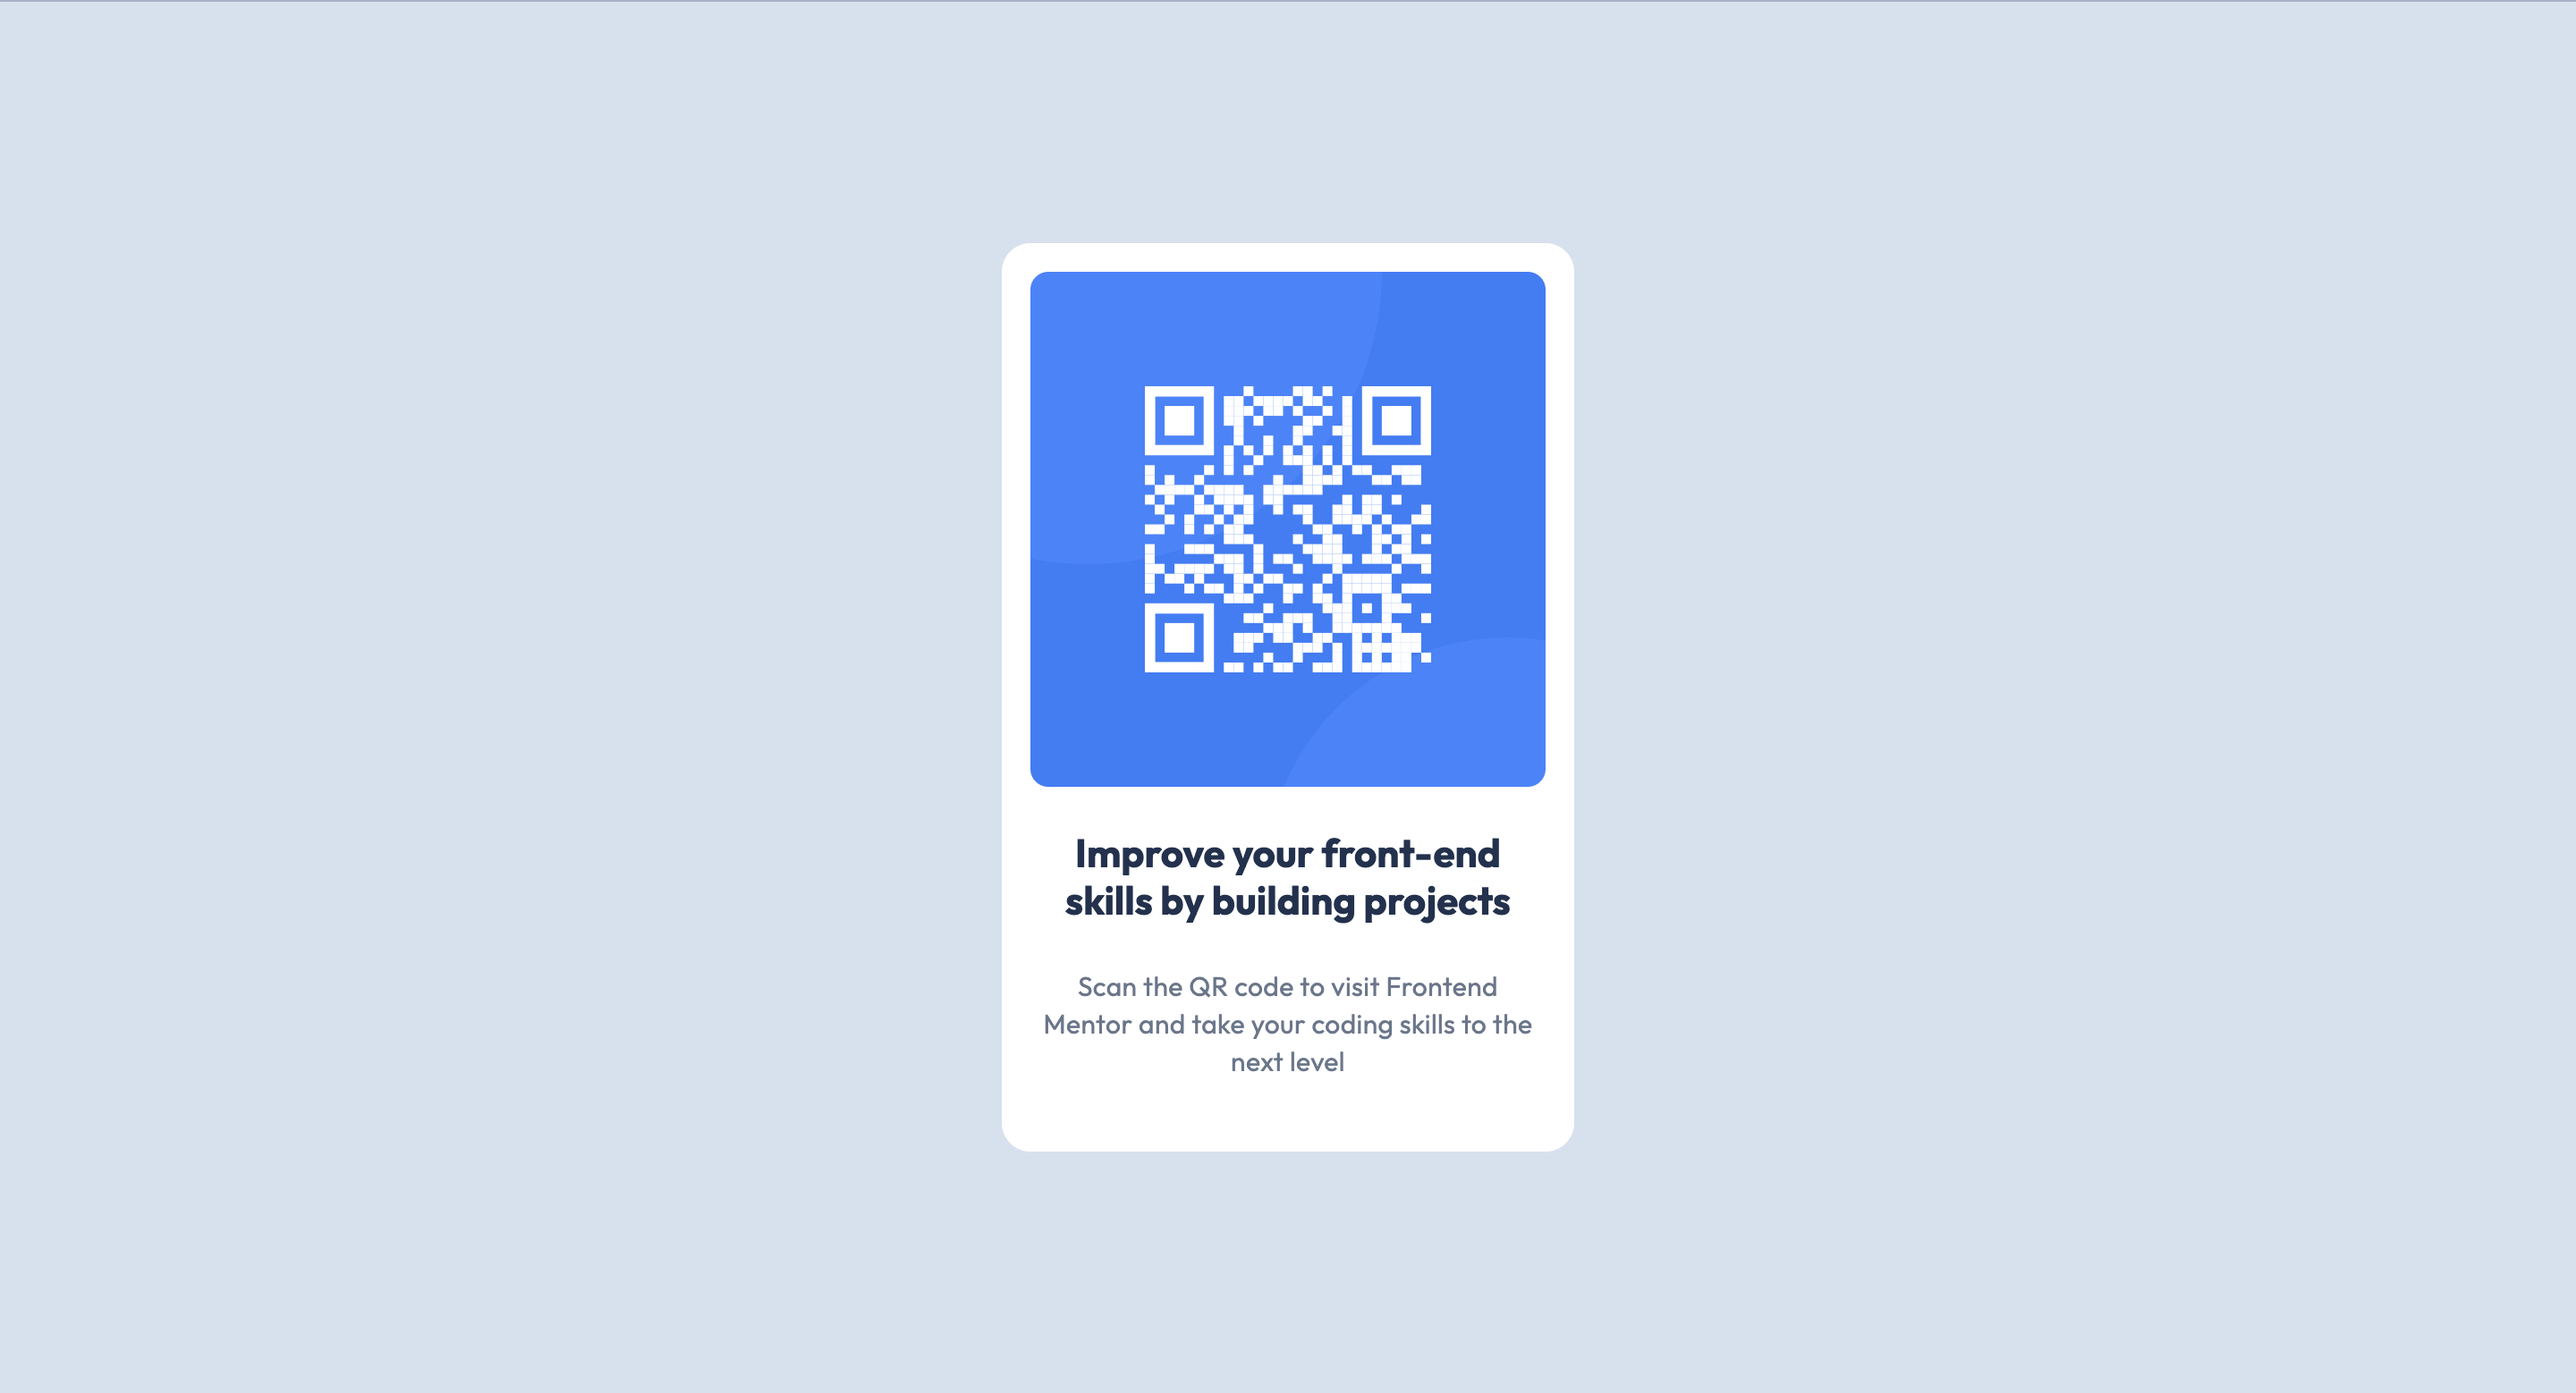
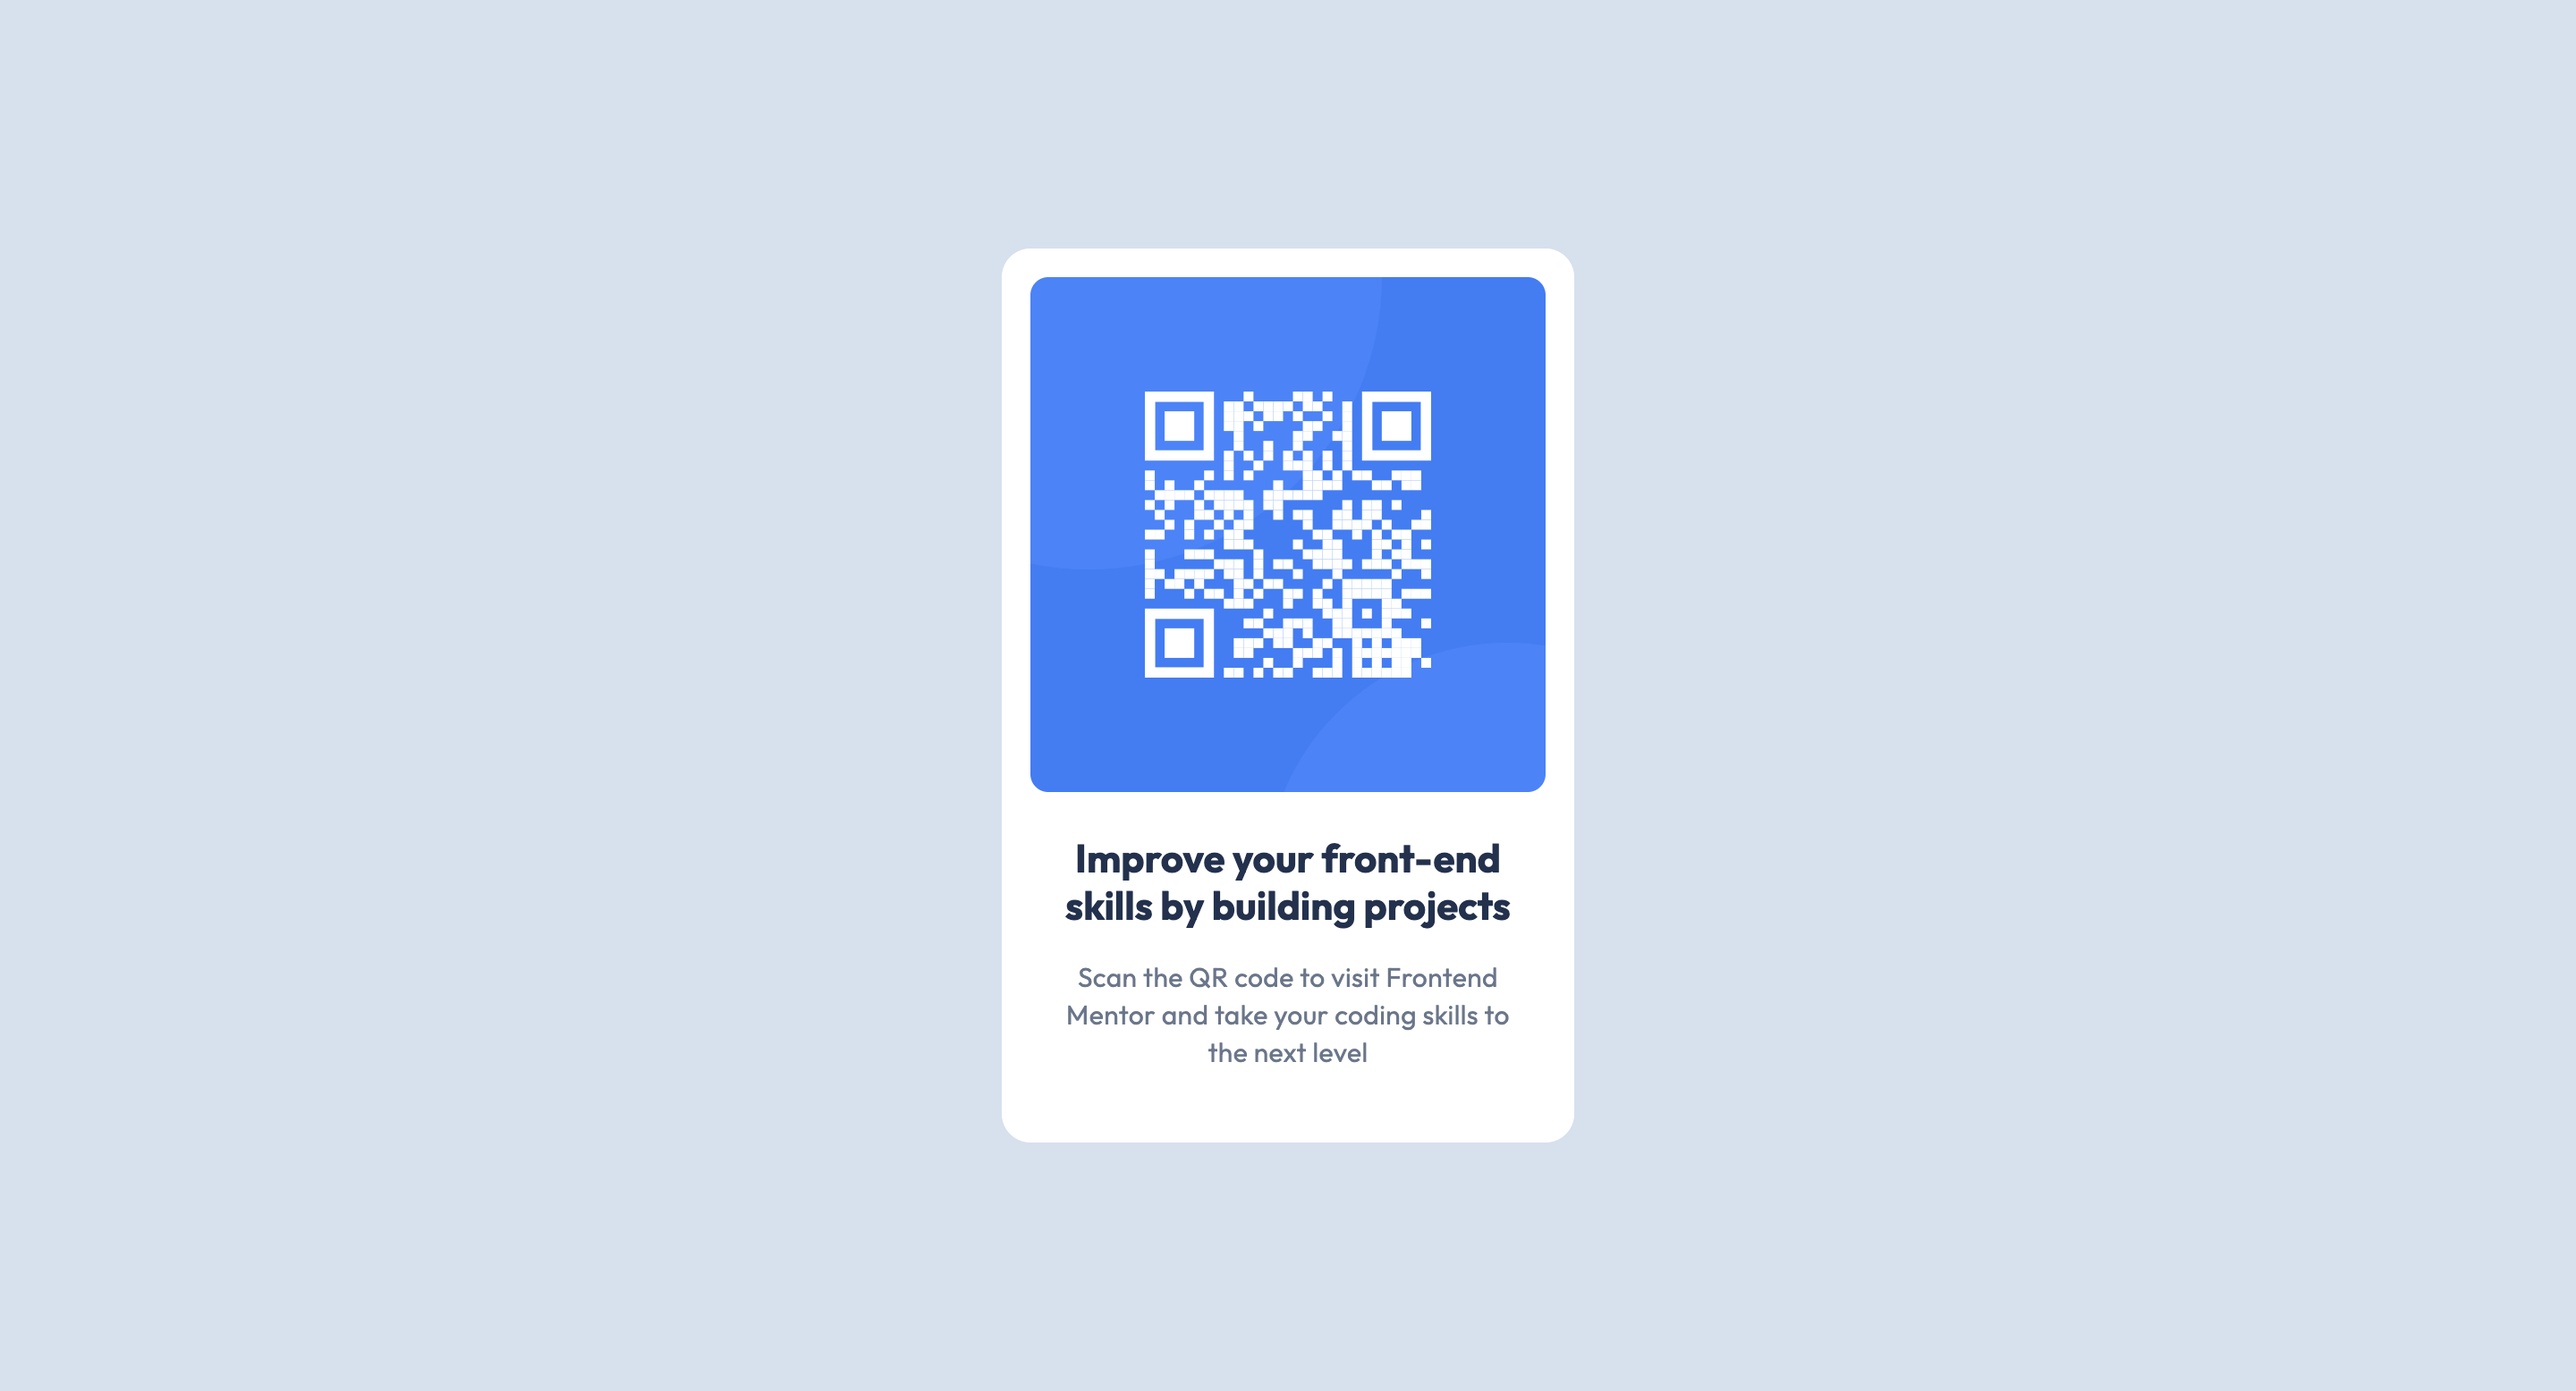
fix: fix card

diff --git a/index.html b/index.html
@@ -35,11 +35,15 @@
   <body>
     <div class="card">
       <img class="qr" src="./images/image-qr-code.png" alt="" />
-      <h1 class="title">Improve your front-end skills by building projects</h1>
-      <p class="description">
-        Scan the QR code to visit Frontend Mentor and take your coding skills to
-        the next level
-      </p>
+      <div class="text">
+        <h1 class="title">
+          Improve your front-end skills by building projects
+        </h1>
+        <p class="description">
+          Scan the QR code to visit Frontend Mentor and take your coding skills
+          to the next level
+        </p>
+      </div>
     </div>
   </body>
 </html>

diff --git a/index.css b/index.css
@@ -50,8 +50,16 @@ body {
   border-radius: 10px;
 }
 
+.text {
+  display: grid;
+  grid-template-columns: 1fr;
+  gap: 16px;
+  padding: 0 16px;
+}
+
 .title {
   margin: 0;
+  padding: 0;
   color: var(--color-slate-900);
   font-size: var(--size-bold);
   font-weight: 700;
@@ -62,6 +70,7 @@ body {
 
 .description {
   margin: 0;
+  padding: 0;
   color: var(--color-slate-500);
   font-size: var(--size-regular);
   font-weight: 400;
